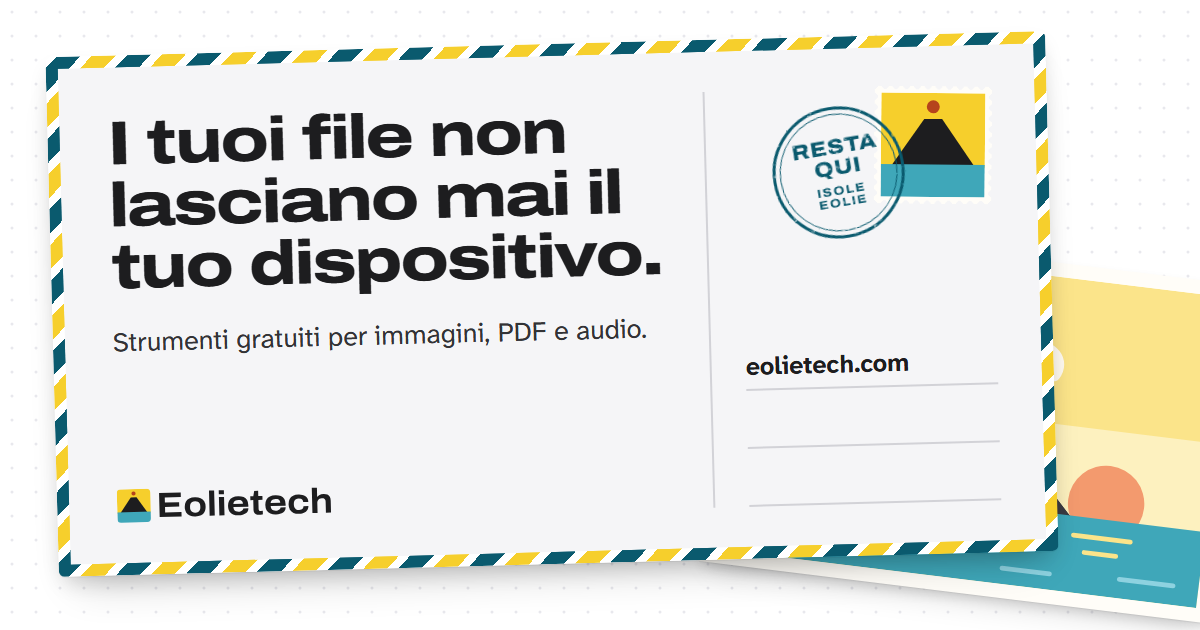
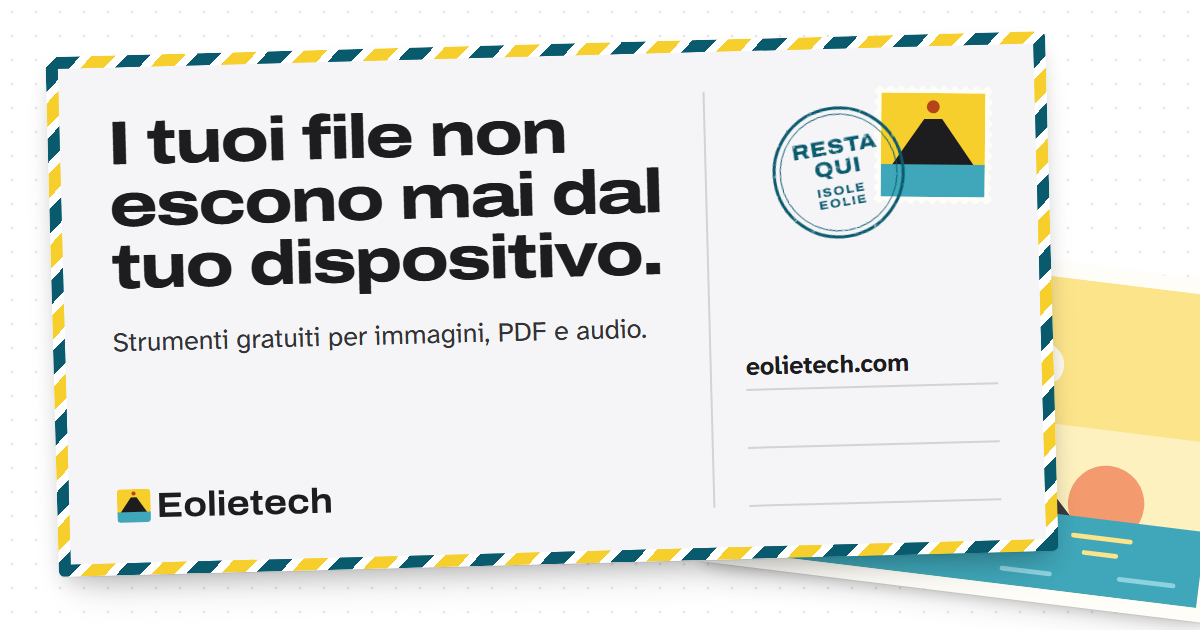
Italian copy: "non escono mai dal tuo dispositivo", "Dopo la prima apertura..." for offline use (no more ambiguous "caricato"), 730.pdf on the home desk; Italian OG card regenerated

Changed region(s): [[0.0925, 0.2714, 0.555, 0.3619]]

diff --git a/src/tools/background-remover/content.it.md b/src/tools/background-remover/content.it.md
@@ -14,7 +14,7 @@ faq:
   - q: "Perché prima scarica circa 110 MB?"
     a: "È il modello di AI (circa 94 MB) più il motore che lo fa girare (da 14 a 16 MB, a seconda che usi o no la scheda grafica). Non viene scaricato niente finché non premi Rimuovi sfondo, e il browser conserva entrambi nella sua memoria, così le visite successive partono senza scaricarli di nuovo. Se cancelli i dati del browser, verranno riscaricati la volta dopo."
   - q: "Quanto tempo ci vuole?"
-    a: "Nelle nostre prove, circa 2 secondi per foto con il processore di un computer desktop e meno di un secondo con una scheda grafica, una volta caricato il modello. Sui portatili possono servire alcuni secondi per foto. I browser con WebGPU (le versioni attuali di Chrome ed Edge sulla maggior parte dei computer) usano la scheda grafica. Smartphone e computer meno recenti sono più lenti e possono esaurire la memoria con foto molto grandi; se succede, prova una foto alla volta."
+    a: "Nelle nostre prove, circa 2 secondi per foto con il processore di un computer desktop e meno di un secondo con una scheda grafica, una volta pronto il modello. Sui portatili possono servire alcuni secondi per foto. I browser con WebGPU (le versioni attuali di Chrome ed Edge sulla maggior parte dei computer) usano la scheda grafica. Smartphone e computer meno recenti sono più lenti e possono esaurire la memoria con foto molto grandi; se succede, prova una foto alla volta."
   - q: "Il risultato avrà le stesse dimensioni della mia foto?"
     a: "Sì. Il modello guarda una versione da 512 × 512 pixel della foto per decidere cosa è soggetto e cosa è sfondo, e quella maschera viene poi ingrandita e applicata all'immagine originale. Il PNG ha la stessa larghezza e altezza della foto che hai aggiunto."
   - q: "Con che tipo di foto funziona meglio?"
@@ -66,4 +66,4 @@ Il risultato è sempre un PNG, perché il JPG non può salvare la trasparenza. I
 
 ## Privacy e licenze
 
-Le tue foto non lasciano mai il tuo dispositivo. I file del modello vengono forniti da questo sito, verificati con checksum fissi e conservati nella memoria del browser. BiRefNet è di Peng Zheng, Dehong Gao, Deng-Ping Fan, Li Liu, Jorma Laaksonen, Wanli Ouyang e Nicu Sebe, rilasciato con licenza MIT; l'esportazione ONNX a 512 × 512 usata qui è di Studio Ludens, anch'essa MIT. ONNX Runtime è di Microsoft, con licenza MIT.
+Le tue foto non escono mai dal tuo dispositivo. I file del modello vengono forniti da questo sito, verificati con checksum fissi e conservati nella memoria del browser. BiRefNet è di Peng Zheng, Dehong Gao, Deng-Ping Fan, Li Liu, Jorma Laaksonen, Wanli Ouyang e Nicu Sebe, rilasciato con licenza MIT; l'esportazione ONNX a 512 × 512 usata qui è di Studio Ludens, anch'essa MIT. ONNX Runtime è di Microsoft, con licenza MIT.

diff --git a/src/tools/audio-transcribe/content.it.md b/src/tools/audio-transcribe/content.it.md
@@ -72,4 +72,4 @@ Il file .txt ha una riga per frase, senza tempi, per appunti e documenti. I file
 
 ## Privacy, limiti e licenze
 
-La tua registrazione non lascia mai il tuo dispositivo. Sono accettati file fino a 200 MB; quello che limita davvero un file è la sua durata, perché il browser tiene in memoria tutto l'audio decodificato. Se una registrazione lunga non va a buon fine, dividila in parti o estrai prima solo l'audio. I file del modello vengono forniti da questo sito, verificati con checksum fissi e conservati nella memoria del browser. Whisper è di OpenAI, rilasciato con licenza MIT; la conversione ONNX è della community ONNX di Hugging Face. Transformers.js è di Hugging Face (Apache 2.0) e ONNX Runtime di Microsoft (MIT).
+La tua registrazione non esce mai dal tuo dispositivo. Sono accettati file fino a 200 MB; quello che limita davvero un file è la sua durata, perché il browser tiene in memoria tutto l'audio decodificato. Se una registrazione lunga non va a buon fine, dividila in parti o estrai prima solo l'audio. I file del modello vengono forniti da questo sito, verificati con checksum fissi e conservati nella memoria del browser. Whisper è di OpenAI, rilasciato con licenza MIT; la conversione ONNX è della community ONNX di Hugging Face. Transformers.js è di Hugging Face (Apache 2.0) e ONNX Runtime di Microsoft (MIT).

diff --git a/src/tools/pdf-compress/content.it.md b/src/tools/pdf-compress/content.it.md
@@ -70,4 +70,4 @@ Testo e grafica vettoriale restano nitidi con ogni impostazione. I livelli di qu
 
 ## Privacy e limiti
 
-I tuoi PDF non lasciano mai il tuo dispositivo; viene scaricato solo il motore, da questo sito. I file che chiedono una password per essere aperti non si possono comprimere. I file molto grandi richiedono parecchia memoria, quindi sugli smartphone può aiutare comprimere un file alla volta. I campi interattivi dei moduli e alcuni elementi aggiuntivi del documento potrebbero essere appiattiti o persi quando Ghostscript riscrive il file, quindi tieni l'originale. Per ridurre le immagini prima di metterle in un PDF, può esserti utile [Comprimere immagini](/it/comprimere-immagini/).
+I tuoi PDF non escono mai dal tuo dispositivo; viene scaricato solo il motore, da questo sito. I file che chiedono una password per essere aperti non si possono comprimere. I file molto grandi richiedono parecchia memoria, quindi sugli smartphone può aiutare comprimere un file alla volta. I campi interattivi dei moduli e alcuni elementi aggiuntivi del documento potrebbero essere appiattiti o persi quando Ghostscript riscrive il file, quindi tieni l'originale. Per ridurre le immagini prima di metterle in un PDF, può esserti utile [Comprimere immagini](/it/comprimere-immagini/).

diff --git a/src/tools/pdf-merge/content.it.md b/src/tools/pdf-merge/content.it.md
@@ -10,7 +10,7 @@ howTo:
   - "Scarica il PDF unito e controllalo con il lettore PDF che usi di solito."
 faq:
   - q: "I miei file vengono caricati da qualche parte?"
-    a: "No. L'unione avviene nel tuo browser con la libreria open source pdf-lib. I tuoi PDF vengono letti dal disco nella memoria della pagina e il risultato viene salvato di nuovo sul disco. Una volta caricata la pagina puoi anche scollegarti da internet: lo strumento funziona lo stesso."
+    a: "No. L'unione avviene nel tuo browser con la libreria open source pdf-lib. I tuoi PDF vengono letti dal disco nella memoria della pagina e il risultato viene salvato di nuovo sul disco. Dopo la prima apertura della pagina puoi anche scollegarti da internet: lo strumento funziona lo stesso."
   - q: "Posso unire PDF protetti da password?"
     a: "No. I PDF cifrati non si possono unire qui. Apri il file in un lettore che conosce la password, salva una copia non protetta e aggiungi quella."
   - q: "Link, segnalibri e campi dei moduli restano?"

diff --git a/src/tools/pdf-organize/content.it.md b/src/tools/pdf-organize/content.it.md
@@ -2,7 +2,7 @@
 title: "Riordinare, ruotare ed eliminare pagine PDF | Eolietech"
 description: "Vedi ogni pagina di un PDF come miniatura, poi riordina, ruota o elimina le pagine e salva un nuovo file. Funziona nel browser; non viene caricato niente."
 h1: "Organizzare le pagine di un PDF"
-intro: "Sistema un PDF pagina per pagina: metti le pagine nell'ordine giusto, raddrizza le scansioni storte ed elimina quelle che non ti servono. Vedi una miniatura di ogni pagina e il file non lascia mai il tuo dispositivo."
+intro: "Sistema un PDF pagina per pagina: metti le pagine nell'ordine giusto, raddrizza le scansioni storte ed elimina quelle che non ti servono. Vedi una miniatura di ogni pagina e il file non esce mai dal tuo dispositivo."
 howTo:
   - "Scegli un PDF o trascinalo nel riquadro qui sopra. Compare una miniatura per ogni pagina."
   - "Riordina le pagine trascinandole, oppure con i pulsanti Prima e Dopo sotto ogni pagina."

diff --git a/src/tools/image-compress/content.png-to-jpg.it.md b/src/tools/image-compress/content.png-to-jpg.it.md
@@ -16,7 +16,7 @@ faq:
   - q: "Perché il mio JPG non è molto più leggero?"
     a: "La grafica semplice con ampie zone a tinta unita, come diagrammi o loghi, è già salvata in modo efficiente in PNG. Il JPG fa risparmiare di più su foto e immagini ricche di dettagli."
   - q: "Viene caricato qualcosa?"
-    a: "No. Il decoder PNG e l'encoder MozJPEG girano nel tuo browser, e i tuoi file non lasciano mai il dispositivo."
+    a: "No. Il decoder PNG e l'encoder MozJPEG girano nel tuo browser, e i tuoi file non escono mai dal dispositivo."
 ui:
   img.drop.hint: "Immagini PNG. Convertite sul tuo dispositivo: non viene caricato nulla."
   img.zipName: "png-in-jpg.zip"
